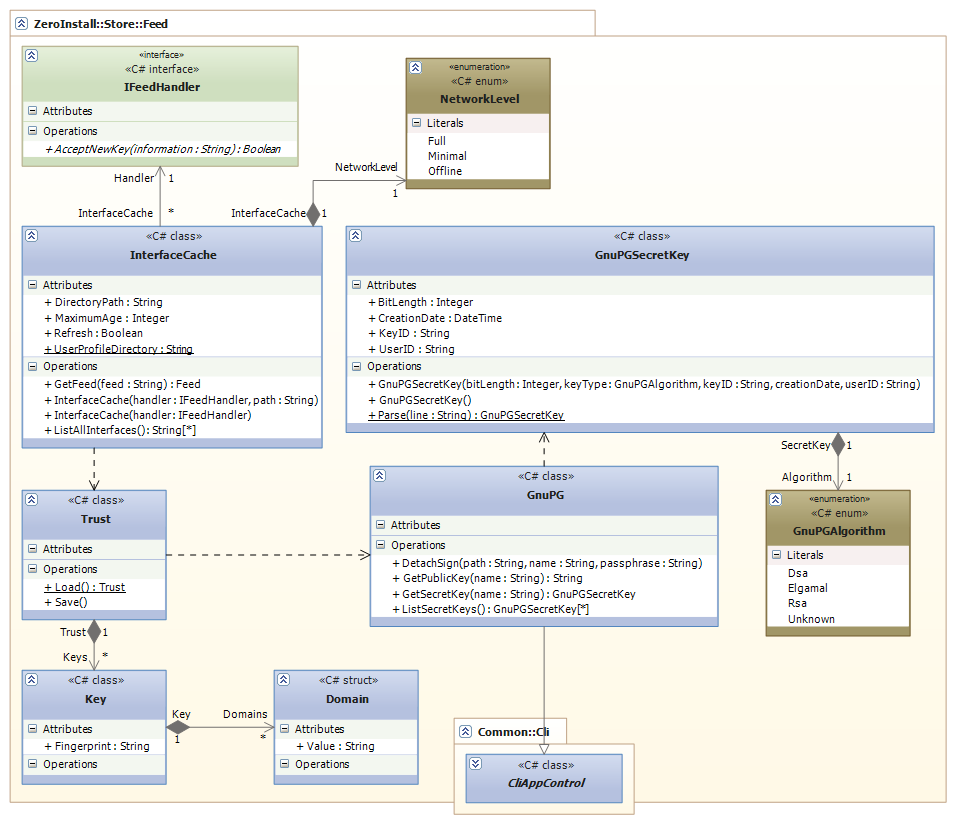
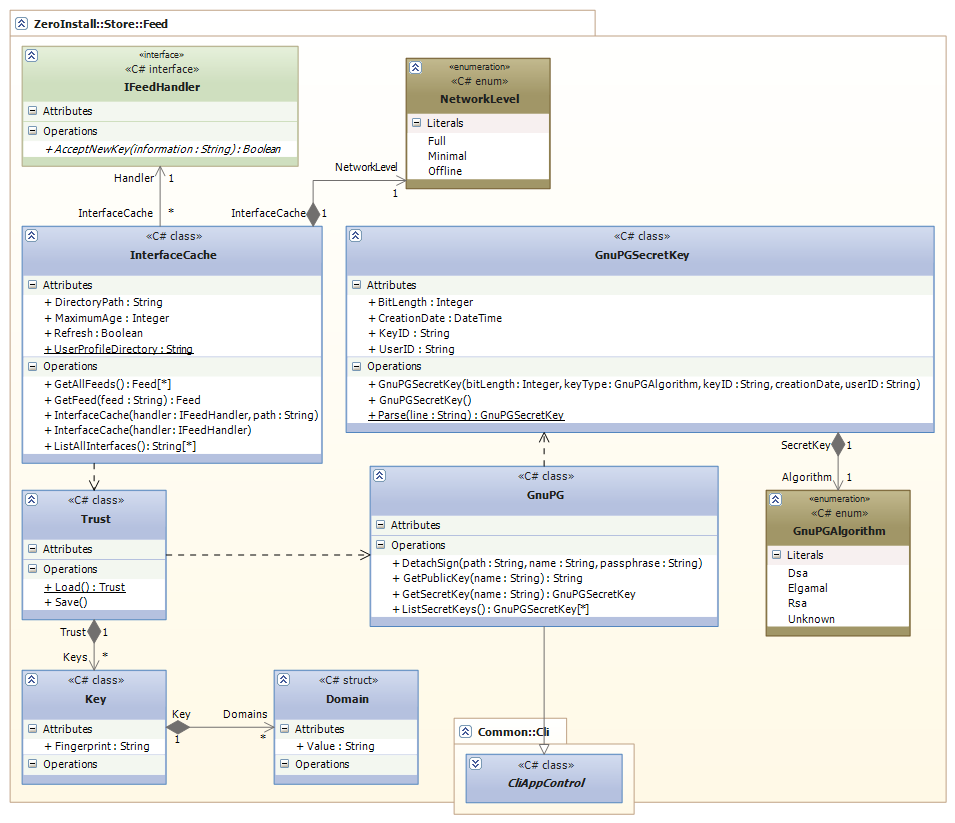
Added InterfaceCache.GetAllFeeds()

Changed region(s): [[0.0, 0.4557, 0.334, 0.5772]]

diff --git a/vs/Test.Backend/Store/Feed/InterfaceCacheTest.cs b/vs/Test.Backend/Store/Feed/InterfaceCacheTest.cs
@@ -49,15 +49,31 @@ namespace ZeroInstall.Store.Feed
         /// Ensures that <see cref="InterfaceCache.ListAllInterfaces"/> correctly identifies non-cached feed XMLs.
         /// </summary>
         [Test]
-        public void TestGetCached()
+        public void TestListAllInterfaces()
         {
             using (var temp = new TemporaryDirectory())
             {
                 File.WriteAllText(Path.Combine(temp.Path, "invalid"), "");
-                File.WriteAllText(Path.Combine(temp.Path, "http%3a%2f%2f0install.de%2ftest%2finterface.xml"), "");
+                Model.FeedTest.CreateTestFeed().Save(Path.Combine(temp.Path, "http%3a%2f%2f0install.de%2ftest%2finterface.xml"));
 
-                var cached = new InterfaceCache(new SilentHandler(), temp.Path).ListAllInterfaces();
-                CollectionAssert.AreEqual(new[] {"http://0install.de/test/interface.xml"}, cached);
+                var interfaces = new InterfaceCache(new SilentHandler(), temp.Path).ListAllInterfaces();
+                CollectionAssert.AreEqual(new[] {"http://0install.de/test/interface.xml"}, interfaces);
+            }
+        }
+
+        /// <summary>
+        /// Ensures that <see cref="InterfaceCache.GetAllFeeds"/> correctly loads feed XMLs.
+        /// </summary>
+        [Test]
+        public void TestGetAllFeeds()
+        {
+            using (var temp = new TemporaryDirectory())
+            {
+                File.WriteAllText(Path.Combine(temp.Path, "invalid"), "");
+                Model.FeedTest.CreateTestFeed().Save(Path.Combine(temp.Path, "http%3a%2f%2f0install.de%2ftest%2finterface.xml"));
+
+                var feeds = new InterfaceCache(new SilentHandler(), temp.Path).GetAllFeeds();
+                CollectionAssert.AreEqual(new[] {Model.FeedTest.CreateTestFeed()}, feeds);
             }
         }
     }

diff --git a/vs/Store/Feed/InterfaceCache.cs b/vs/Store/Feed/InterfaceCache.cs
@@ -159,7 +159,7 @@ namespace ZeroInstall.Store.Feed
 
         #region List interfaces
         /// <summary>
-        /// Returns a list of all valid interfaces stored in this cache.
+        /// Returns a list of all interfaces for <see cref="Feed"/>s stored in this cache.
         /// </summary>
         /// <returns>A list of interface URIs (e.g. "http://somedomain.net/interface.xml") in C-sorted order (ordinal comparison, increasing).</returns>
         public IEnumerable<string> ListAllInterfaces()
@@ -176,5 +176,21 @@ namespace ZeroInstall.Store.Feed
             return files;
         }
         #endregion
+
+        /// <summary>
+        /// Loads all <see cref="Feed"/>s currently in this cache.
+        /// </summary>
+        /// <returns>A list of <see cref="Feed"/>s in no guaranteed order.</returns>
+        public IEnumerable<Model.Feed> GetAllFeeds()
+        {
+            // Find all files whose names begin with an URL protocol
+            string[] files = Directory.GetFiles(DirectoryPath, "http*");
+
+            var feeds = new Model.Feed[files.LongLength];
+            for (int i = 0; i < files.Length; i++)
+                feeds[i] = Model.Feed.Load(files[i]);
+
+            return feeds;
+        }
     }
 }
